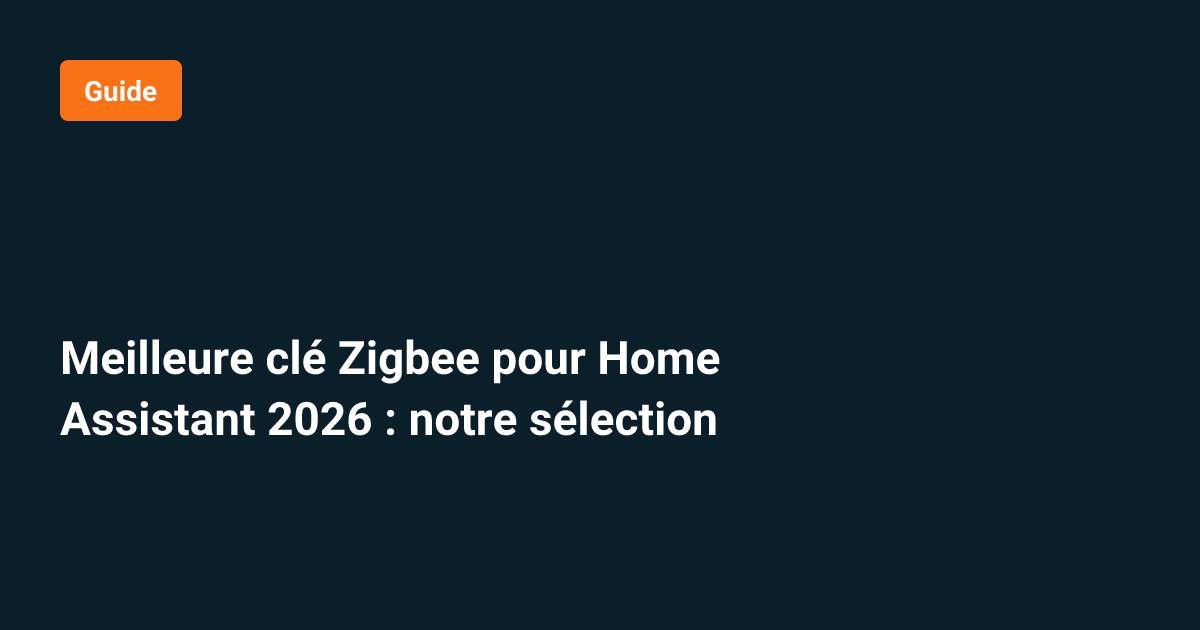
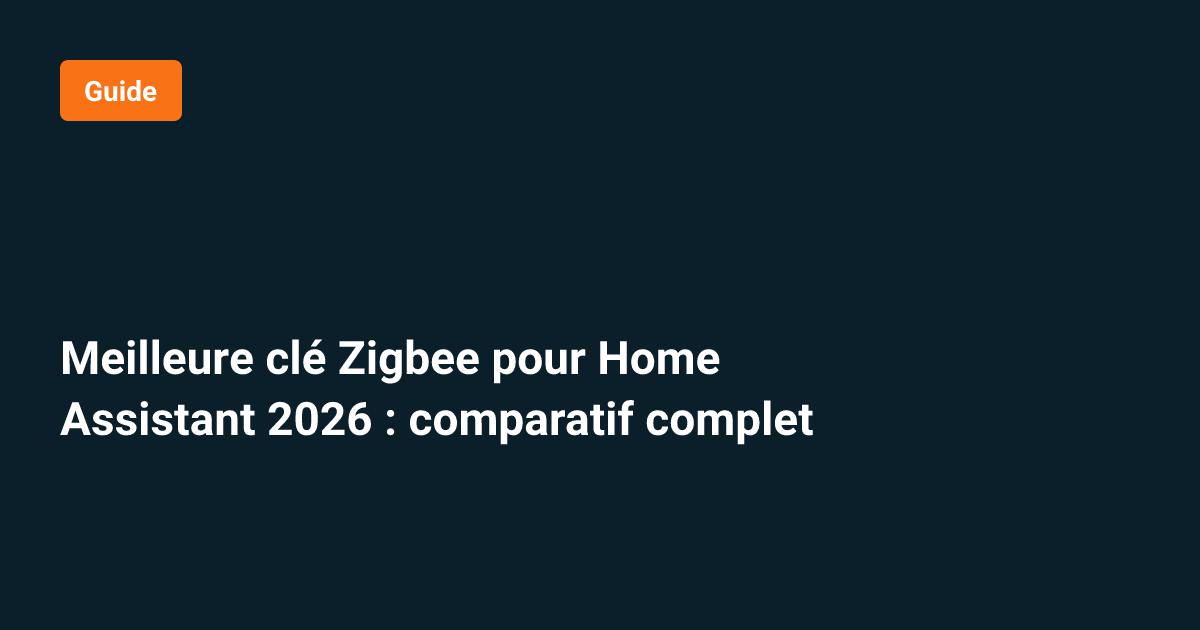
feat: illustrations uniques par article
- Implémente resolveArticleImage() avec priorités:
  1. heroImage si non générique
  2. Vignette générée avec photo produit intégrée
- Modifie BlogPost.astro pour utiliser la même logique pour bannière et og:image
- Support img HTML pour vignettes générées en bannière
- Supprime heroImage génériques hors-sujet (Scratch sur articles C/Arduino/Python)
- Régénère 143 vignettes blog + domotique

Résultats:
- 135 bannières distinctes
- 146 og:image distinctes
- Toutes les og:image pointent vers des fichiers existants

Changed region(s): [[0.3392, 0.6333, 0.6783, 0.6937]]

diff --git a/src/lib/articleThumbnail.ts b/src/lib/articleThumbnail.ts
@@ -65,6 +65,36 @@ export function getGeneratedThumbnailPath(slug: string): string {
 }
 
 /**
+ * Résout l'image à utiliser pour un article (bannière + og:image dans BlogPost).
+ * Priorité:
+ * 1. heroImage si spécifique (pas générique)
+ * 2. Vignette générée /images/blog-thumbnails/<slug>.png (toujours disponible)
+ * 
+ * Note: On ne tente plus les photos produits car elles sont déjà intégrées
+ * dans les vignettes générées par le script generate-blog-thumbnails.mjs
+ */
+export function resolveArticleImage(
+	slug: string,
+	heroImage?: ImageMetadata
+): string | ImageMetadata {
+	// 1. heroImage spécifique (pas générique)
+	if (heroImage) {
+		const isGeneric = genericImages.some(g => {
+			if (typeof heroImage === 'string') {
+				return heroImage.includes(g);
+			}
+			return heroImage.src?.includes(g);
+		});
+		if (!isGeneric) {
+			return heroImage;
+		}
+	}
+	
+	// 2. Vignette générée (toujours disponible, avec photo produit déjà intégrée)
+	return getGeneratedThumbnailPath(slug);
+}
+
+/**
  * Génère un SVG unique pour un article (couverture dynamique)
  */
 export function generateArticleThumbnail(post: CollectionEntry<'blog'>): string {
